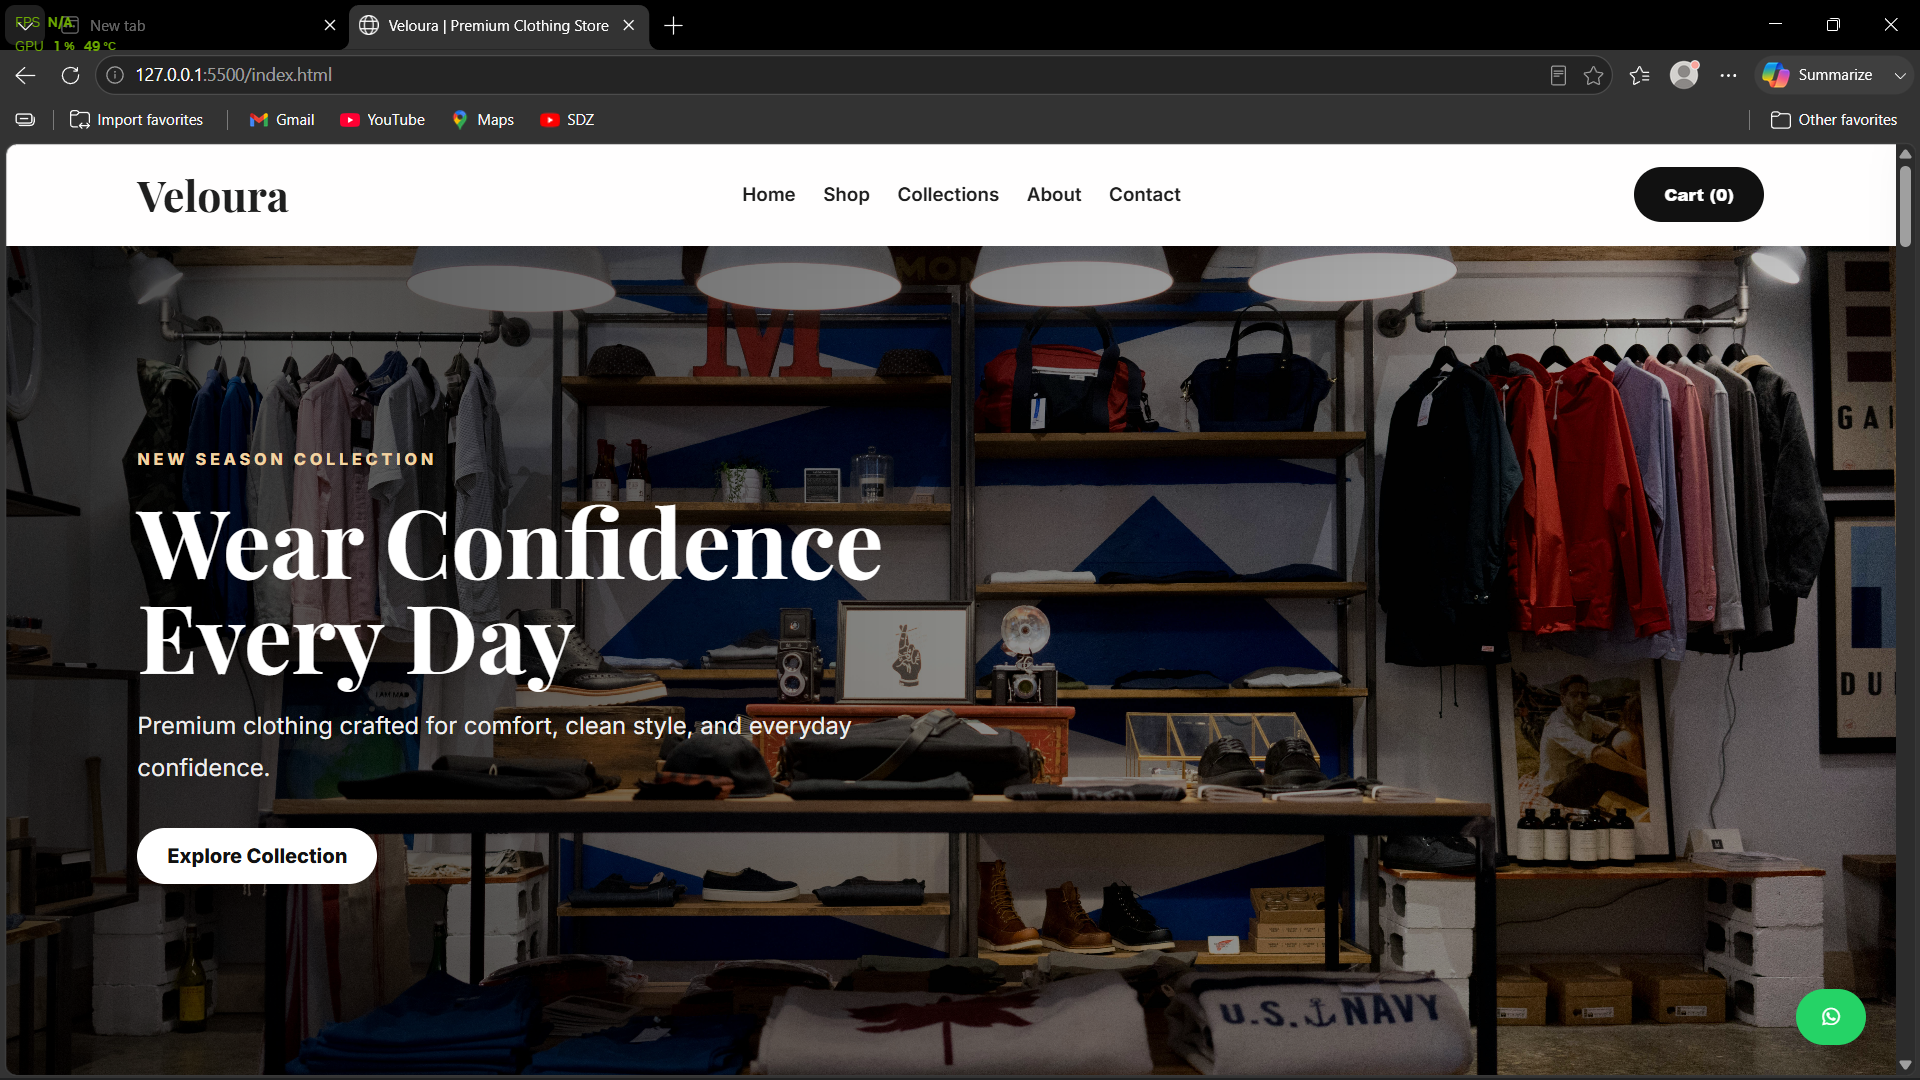
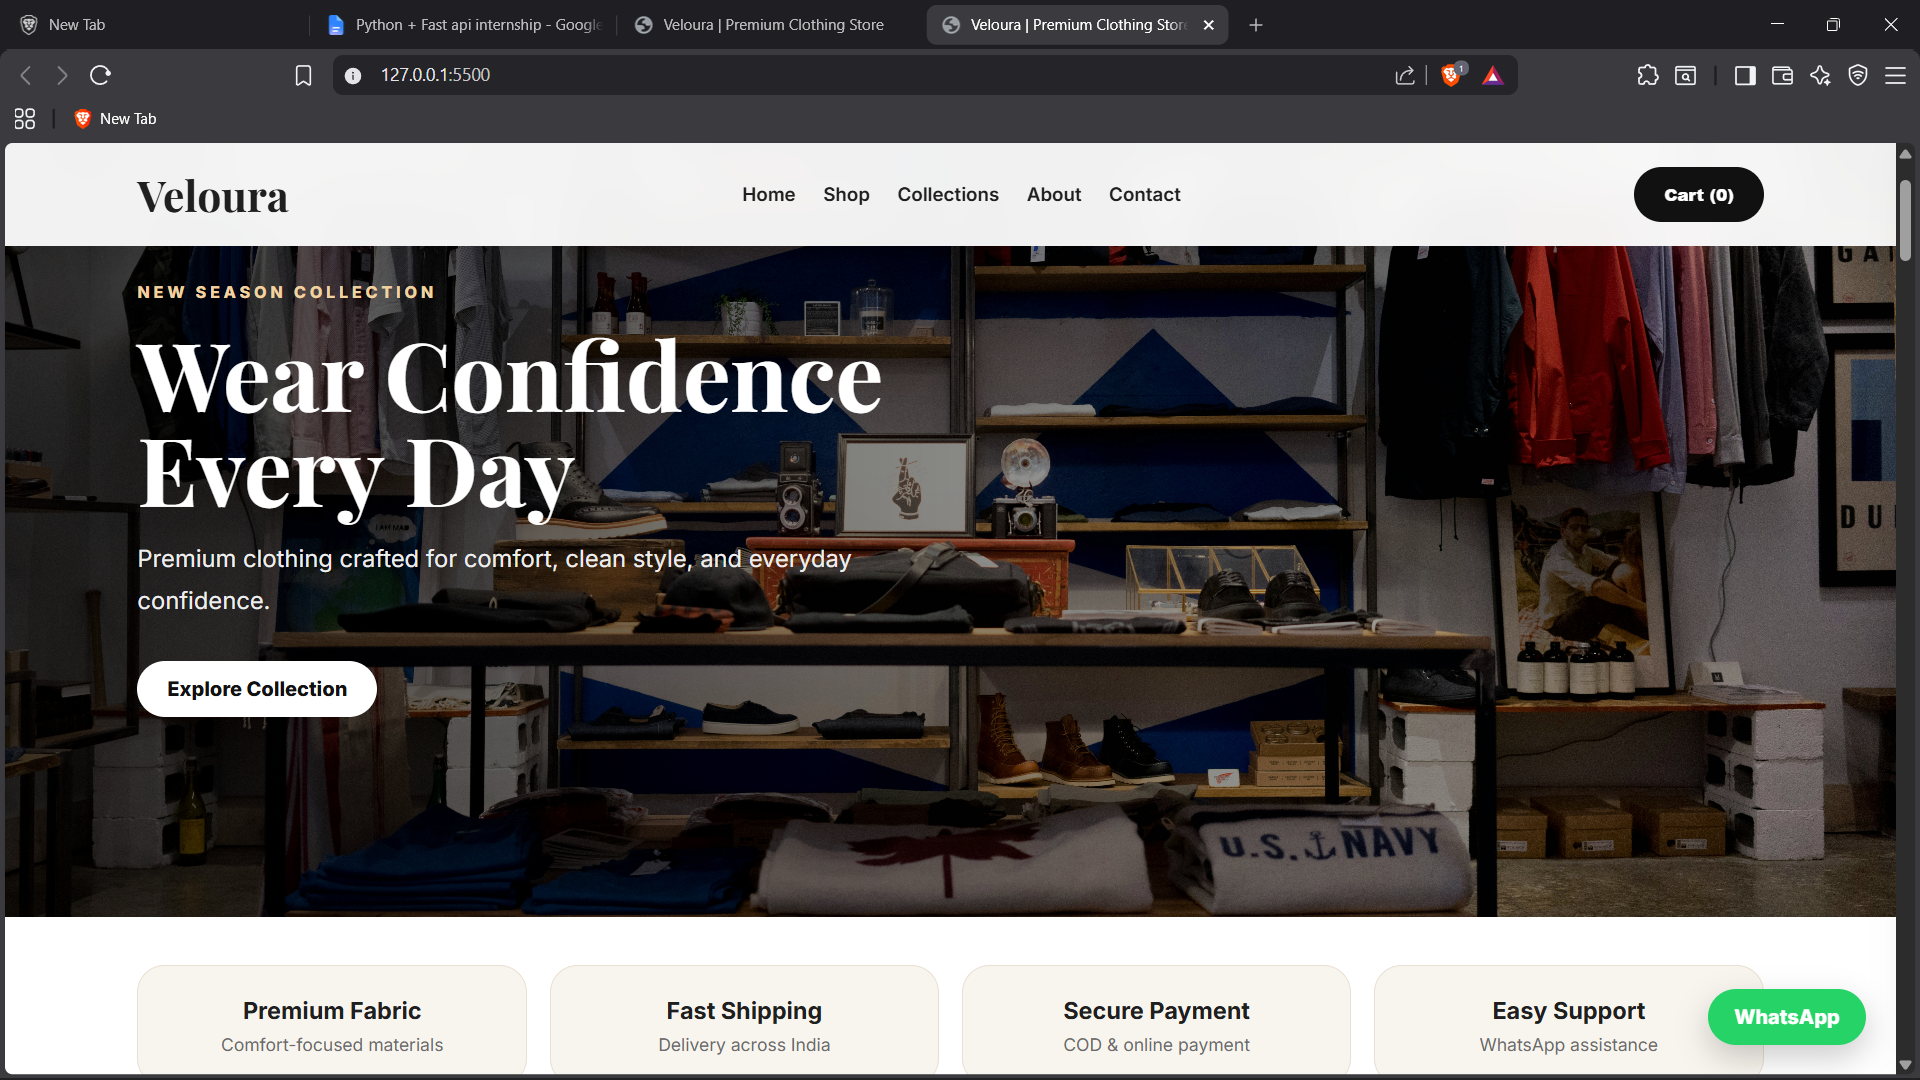
Add files via upload

diff --git a/src/layout/Navbar.jsx b/src/layout/Navbar.jsx
@@ -1,6 +1,5 @@
-import { Menu, X } from "lucide-react";
+import { Menu, X, Moon, Sun } from "lucide-react";
 import { useState } from "react";
-import { Moon, Sun } from "lucide-react";
 
 const links = [
   { name: "Home", path: "#home" },
@@ -30,46 +29,41 @@ export const Navbar = ({ theme, setTheme }) => {
           ))}
         </div>
 
-       <div className="hidden md:flex items-center gap-3">
+        <div className="flex items-center gap-2">
+          <button
+            onClick={() => setTheme(theme === "dark" ? "light" : "dark")}
+            className="icon-btn"
+            aria-label="Toggle Theme"
+          >
+            {theme === "dark" ? <Sun size={20} /> : <Moon size={20} />}
+          </button>
 
-  <button
-    onClick={() =>
-      setTheme(theme === "dark" ? "light" : "dark")
-    }
-    className="icon-btn"
-    aria-label="Toggle Theme"
-  >
-    {theme === "dark" ? (
-      <Sun size={20} />
-    ) : (
-      <Moon size={20} />
-    )}
-  </button>
+          <a href="#contact" className="primary-btn text-xs md:text-sm px-3 md:px-5 py-2">
+            Hire / Connect
+          </a>
 
-  <a
-    href="#contact"
-    className="primary-btn text-sm"
-  >
-    Hire / Connect
-  </a>
-
-</div>
-
-        <button className="lg:hidden icon-btn" onClick={() => setOpen(!open)} aria-label="Toggle menu">
-          {open ? <X size={22} /> : <Menu size={22} />}
-        </button>
+          <button
+            className="lg:hidden icon-btn"
+            onClick={() => setOpen(!open)}
+            aria-label="Toggle menu"
+          >
+            {open ? <X size={22} /> : <Menu size={22} />}
+          </button>
+        </div>
       </nav>
 
       {open && (
         <div className="lg:hidden bg-background border-t border-border px-6 py-5 space-y-4">
           {links.map((link) => (
-            <a key={link.name} href={link.path} onClick={() => setOpen(false)} className="block text-muted-foreground hover:text-primary">
+            <a
+              key={link.name}
+              href={link.path}
+              onClick={() => setOpen(false)}
+              className="block text-muted-foreground hover:text-primary"
+            >
               {link.name}
             </a>
           ))}
-          <a href="#contact" onClick={() => setOpen(false)} className="inline-flex primary-btn">
-            Contact Me
-          </a>
         </div>
       )}
     </header>

diff --git a/src/sections/GithubActivity.jsx b/src/sections/GithubActivity.jsx
@@ -18,7 +18,7 @@ export const GithubActivity = () => {
           </div>
 
           <div className="bg-white rounded-2xl p-4 overflow-x-auto">
-            <img src="https://ghchart.rshah.org/800020/raheesnelliyali-in" alt="Muhammed Rahees N GitHub contribution heatmap" className="min-w-[760px] w-full" />
+            <img src="https://ghchart.rshah.org/2ea043/raheesnelliyali-in" alt="Muhammed Rahees N GitHub contribution heatmap" className="min-w-[760px] w-full" />
           </div>
 
           <a href="https://github.com/raheesnelliyali-in" target="_blank" rel="noopener noreferrer" className="primary-btn mt-8">
